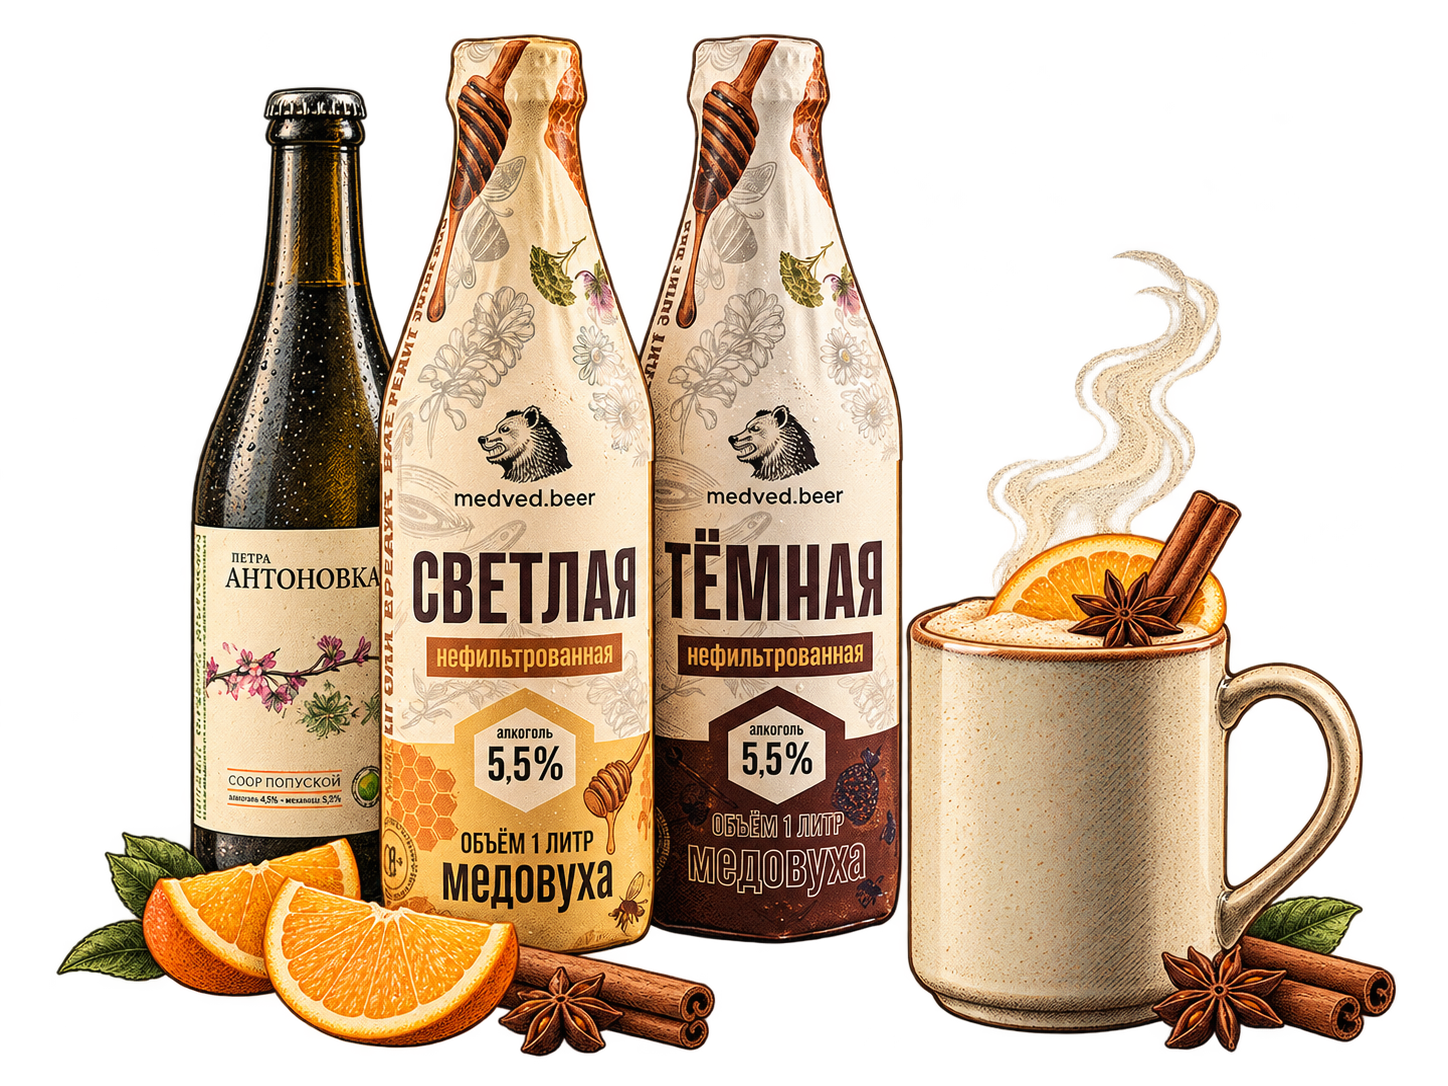
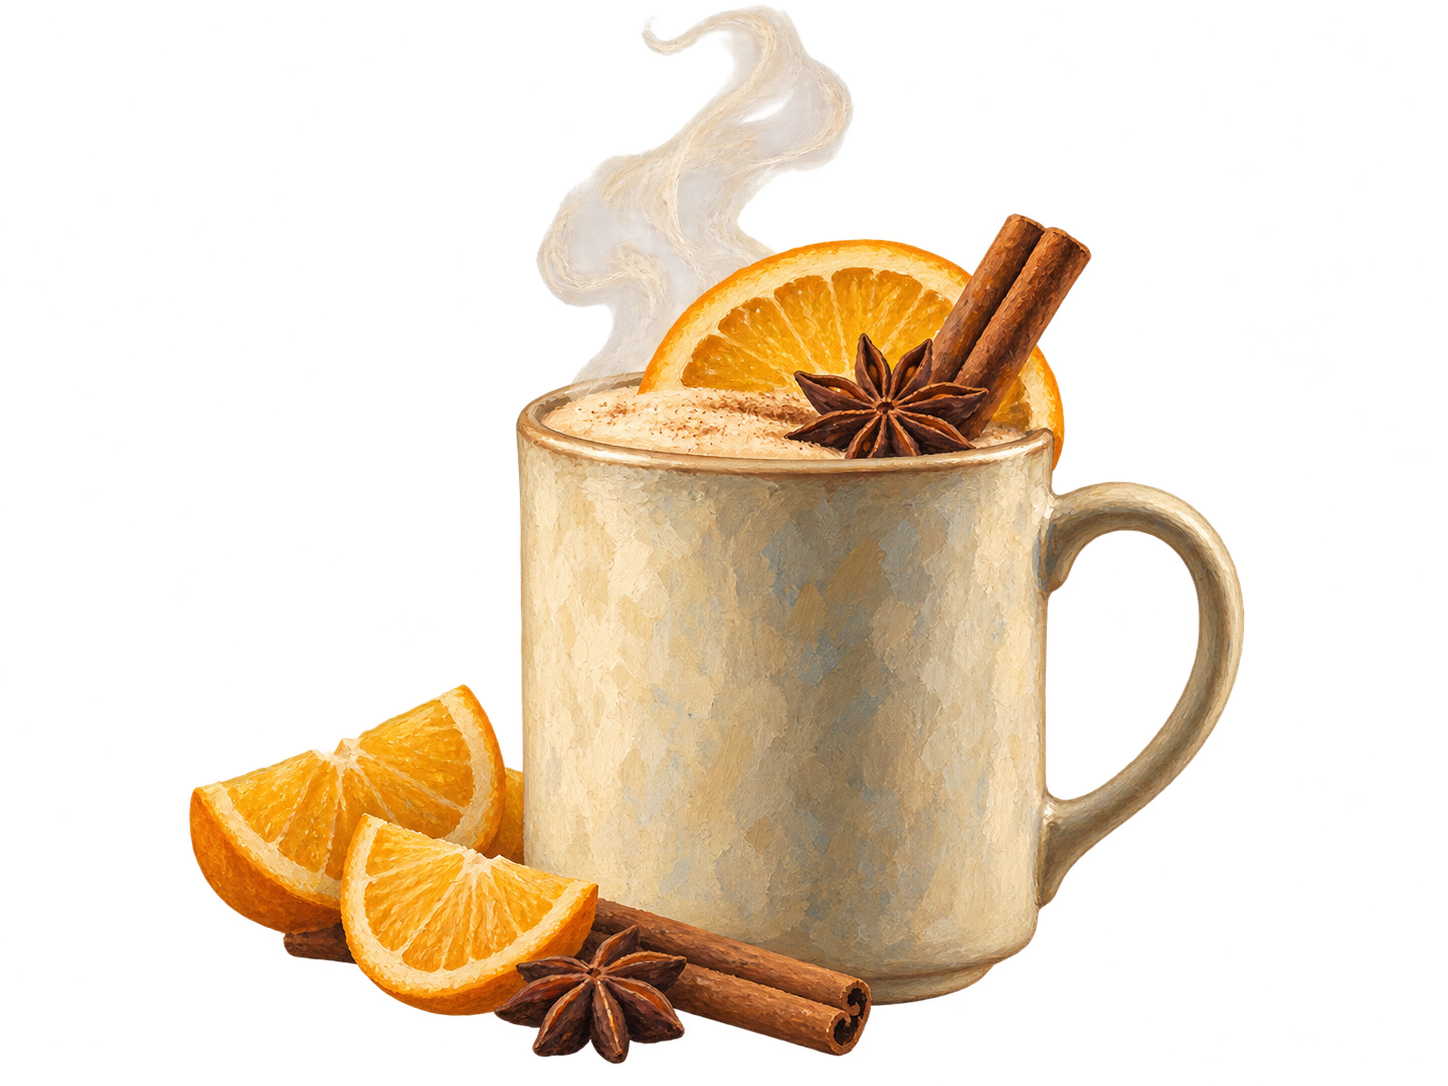
shared: update cocktail illustrations without packaging

diff --git a/src/data/cocktail-recipes.js b/src/data/cocktail-recipes.js
@@ -10,8 +10,8 @@ export const cocktailRecipes = [
     englishName: 'Orchard Spritz',
     base: 'На основе сухого сидра',
     image: orchardSpritz,
-    imageFrame: { width: 1448, height: 1086, bounds: [358, 28, 788, 1035] },
-    imageAlt: 'Орчард Спритц в винном бокале со льдом и зелёным яблоком рядом с банкой сухого сидра',
+    imageFrame: { width: 1448, height: 1086, bounds: [397, 22, 593, 1038] },
+    imageAlt: 'Орчард Спритц в винном бокале со льдом, зелёным яблоком и мятой',
     description: 'Элегантный твист на классические спритцы. Идеальный летний аперитив, который легко готовится «из-под ножа» при полной посадке.',
     ingredients: [
       'Сухой сидр «Медведь» — 120 мл',
@@ -28,8 +28,8 @@ export const cocktailRecipes = [
     englishName: 'Wild Honey Sour',
     base: 'На основе медовухи',
     image: wildHoneySour,
-    imageFrame: { width: 1448, height: 1086, bounds: [173, 18, 1174, 1036] },
-    imageAlt: 'Дикий Сауэр в бокале рокс с розмарином и сотами рядом с банкой тёмной медовухи',
+    imageFrame: { width: 1448, height: 1086, bounds: [315, 0, 801, 1042] },
+    imageAlt: 'Дикий Сауэр в бокале рокс со льдом, розмарином и сотами',
     description: 'Плотный, кисло-сладкий и гастрономичный коктейль. Обожженный розмарин отлично подчеркивает концепцию «дико и натурально».',
     ingredients: [
       'Медовуха — 100 мл',
@@ -46,8 +46,8 @@ export const cocktailRecipes = [
     englishName: 'Poiré Blanc',
     base: 'На основе пуаре',
     image: poireBlanc,
-    imageFrame: { width: 1448, height: 1086, bounds: [261, 44, 874, 1029] },
-    imageAlt: 'Грушевый Френч в бокале флюте с грушей и тимьяном рядом с бутылкой пуаре',
+    imageFrame: { width: 1448, height: 1086, bounds: [321, 20, 658, 1052] },
+    imageAlt: 'Грушевый Френч в бокале флюте с грушей и тимьяном',
     description: 'Тонкий, изящный и сухой коктейль с низким содержанием алкоголя (Low-ABV). Отличный выбор для бранчей и светских вечеров.',
     ingredients: [
       'Пуаре «Медведь» — 100 мл',
@@ -64,8 +64,8 @@ export const cocktailRecipes = [
     englishName: 'Spiced SPb',
     base: 'Согревающий спешл',
     image: spicedSpb,
-    imageFrame: { width: 1448, height: 1086, bounds: [56, 34, 1340, 1023] },
-    imageAlt: 'Пряный Петербург в керамической кружке с апельсином, корицей и бадьяном рядом с сидром и медовухой',
+    imageFrame: { width: 1448, height: 1086, bounds: [189, 4, 1056, 1060] },
+    imageAlt: 'Пряный Петербург в керамической кружке с апельсином, корицей, бадьяном и паром',
     description: 'Зимний хит, который бары могут готовить в больших объемах (в термопоте) или порционно.',
     ingredients: [
       'Полусладкий сидр или медовуха — 150 мл',
